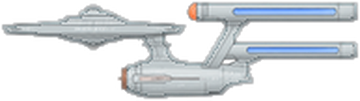
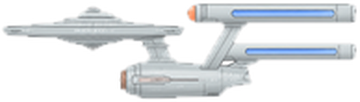
Enterprise sin borde y más chico, Halcón desde arriba, acrobático con piruetas, round robin barajado
Claude-Session: https://claude.ai/code/session_01HzcLU7UAVJ8SL338GQnGNt

Changed region(s): [[0.0, 0.0, 1.0, 0.9802]]

diff --git a/index.html b/index.html
@@ -100,6 +100,8 @@
   .scene .obj .part img.wing{position:absolute;left:0;top:0;width:100%;animation:flap ease-in-out infinite alternate}
   @keyframes flap{from{transform:scaleY(1) rotate(0)}to{transform:scaleY(.28) rotate(-4deg)}}
   .scene .obj .part img.front{position:relative;z-index:1}
+  .scene .obj .stunt{display:block;position:relative;transform-origin:50% 50%;animation:pirueta 6s ease-in-out infinite}
+  @keyframes pirueta{0%,20%{transform:rotate(0) rotateX(0)}42%{transform:rotate(-360deg) rotateX(0) translateY(-6px)}50%,62%{transform:rotate(-360deg) rotateX(0)}80%{transform:rotate(-360deg) rotateX(360deg)}100%{transform:rotate(-360deg) rotateX(360deg)}}
   .scene .obj .part img.wing.back{z-index:0}
   @keyframes capa{0%{transform:skewY(-7deg) scaleY(.9)}50%{transform:skewY(2deg) scaleY(1.04) scaleX(1.03)}100%{transform:skewY(6deg) scaleY(1.08)}}
   .scene .obj .part img{display:block;width:100%;height:auto}
@@ -444,8 +446,9 @@ const WINGS = {
   superman:[[[52,36]], .55, {back:true, anim:"capa"}] // la capa flamea por detrás del cuerpo
 };
 const OBJS = [
+  ["plusultra",46, FX.prop(16,20,22,.3)], ["spirit",30, FX.prop(6,50,28,.25)],
   ["xwing",34, FX.flame(72,37,13,180)+FX.flame(72,62,13,180)],
-  ["tie",20,""], ["enterprise",95, FX.glow(99,11,10,7,180)+FX.glow(99,43,10,7,180)], ["falcon",74, FX.glow(99,50,12,30,180)],
+  ["tie",20,""], ["enterprise",70, FX.glow(99,11,10,7,180)+FX.glow(99,43,10,7,180)], ["falcon",60, FX.glow(99,50,10,34,180)],
   ["hubble",30, FX.blink(36,3,RED)+FX.blink(36,97,GRN,.5)+FX.blink(90,48,WHT,1)],
   ["gansos",30,""], ["boba",18, FX.flame(98,52,22,180)], ["superman",18,""], ["et",18,""], ["pelota",12,""],
   ["dron",12, FX.rotor(12,7,30)+FX.rotor(86,7,30)],
@@ -454,7 +457,7 @@ const OBJS = [
   ["iss",170, FX.blink(3,30,RED)+FX.blink(97,30,GRN,.5)+FX.blink(50,42,WHT,1)],
   ["grinch",20, FX.prop(4,50,30,.25)], ["helicoptero",28, FX.rotor(47,17,70)+FX.prop(94,50,14,.2)], ["globo",40,""], ["avionpapel",12,""], ["parapente",22,""], ["wingsuit",18,""],
   ["saturn",70, FX.flame(99,50,40,180)],
-  ["acrobatico",18, FX.prop(5,47,30,.25)], ["ciguena",14,""], ["plusultra",46, FX.prop(16,20,22,.3)], ["spirit",30, FX.prop(6,50,28,.25)],
+  ["acrobatico",18, FX.prop(5,47,30,.25)], ["ciguena",14,""],
   ["aladelta",22,""], ["wright",26, FX.prop(44,52,22,.25)],
   ["sputnik",24, FX.blink(44,42,RED)+FX.blink(56,52,WHT,.6)], ["pterodactilo",22,""],
   ["globo2",40,""], ["planeador",32,""],
@@ -481,7 +484,7 @@ function santaHTML(){
 let sceneDay = Math.random() < 0.5;
 function stopScene(){ sceneTimers.forEach(clearTimeout); sceneTimers = []; }
 // round robin: siempre el mismo orden, uno tras otro
-function bag(arr){ let i = 0; return ()=>arr[i++ % arr.length]; }
+function bag(arr){ const a = arr.slice(); for(let k = a.length-1; k > 0; k--){ const j = Math.floor(Math.random()*(k+1)); [a[k],a[j]] = [a[j],a[k]]; } let i = 0; return ()=>a[i++ % a.length]; } // round robin, en orden barajado al cargar
 const nextObj = bag(OBJS.filter(o=>o[0]!=="grinch" && o[0]!=="xwing")); // el X-Wing solo aparece persiguiendo al TIE
 function startScene(){
   stopScene();
@@ -539,7 +542,8 @@ function startScene(){
       const wg = WINGS[name];
       const wo = wg && wg[2] || {};
       const body = wg ? `<img src="/obj/${name}_body.png" alt="" class="${wo.back ? "front" : ""}">` + wg[0].map((p,i)=>`<img class="wing${wo.back ? " back" : ""}" src="/obj/${name}_w${i+1}.png" alt="" style="transform-origin:${p[0]}% ${p[1]}%;animation-name:${wo.anim || "flap"};animation-duration:${wg[1]}s;animation-delay:-${(Math.random()*wg[1]).toFixed(2)}s">`).join("") : `<img src="/obj/${name}.png" alt="">`;
-      const go = ()=>{ spawn(`<span class="part" style="left:0;width:100%;animation-duration:${(1.6+Math.random()*1.8).toFixed(2)}s">${body}${fx}</span>`, w, top, dur, front);
+      const inner = name === "acrobatico" ? `<span class="stunt">${body}${fx}</span>` : body + fx; // el acrobático hace piruetas
+      const go = ()=>{ spawn(`<span class="part" style="left:0;width:100%;animation-duration:${(1.6+Math.random()*1.8).toFixed(2)}s">${inner}</span>`, w, top, dur, front);
         if(name === "tie"){
           // el X-Wing lo persigue: sale más atrás, un poco más rápido, y dispara láseres
           const xw = OBJS.find(o=>o[0]==="xwing"), wx = Math.round(xw[1]*1.2*(front ? 1.25 : 0.85));
